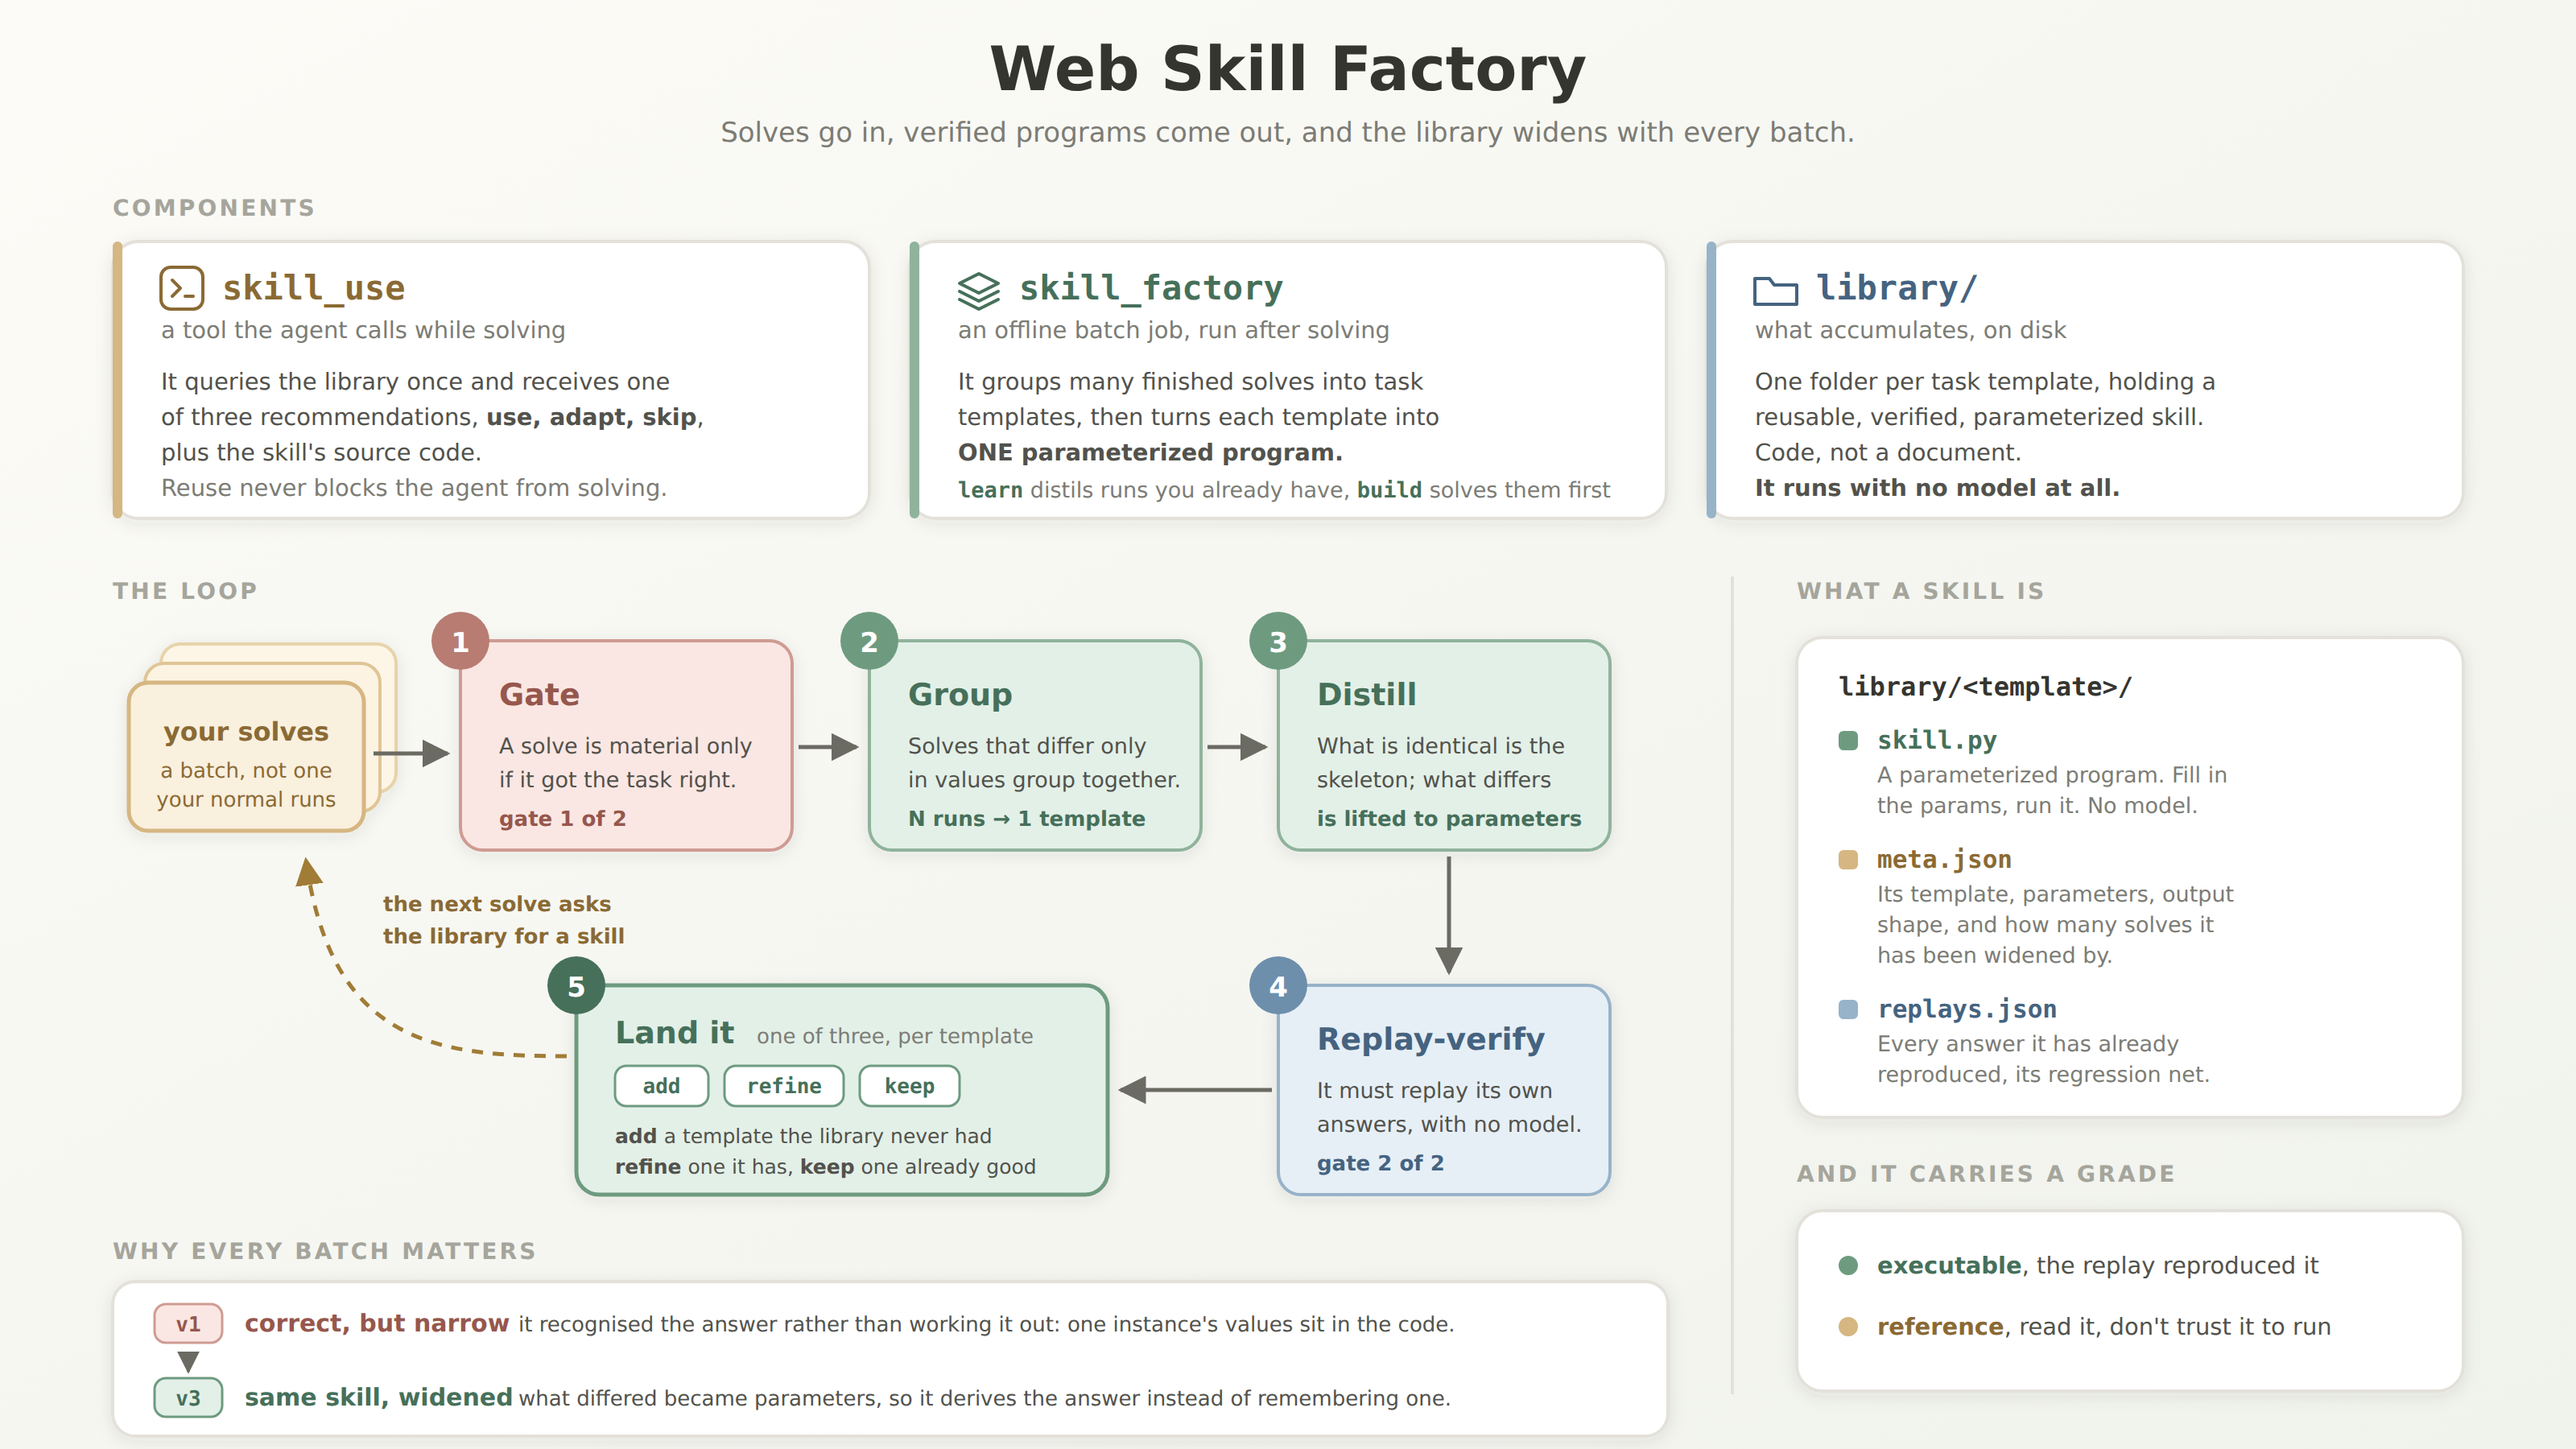
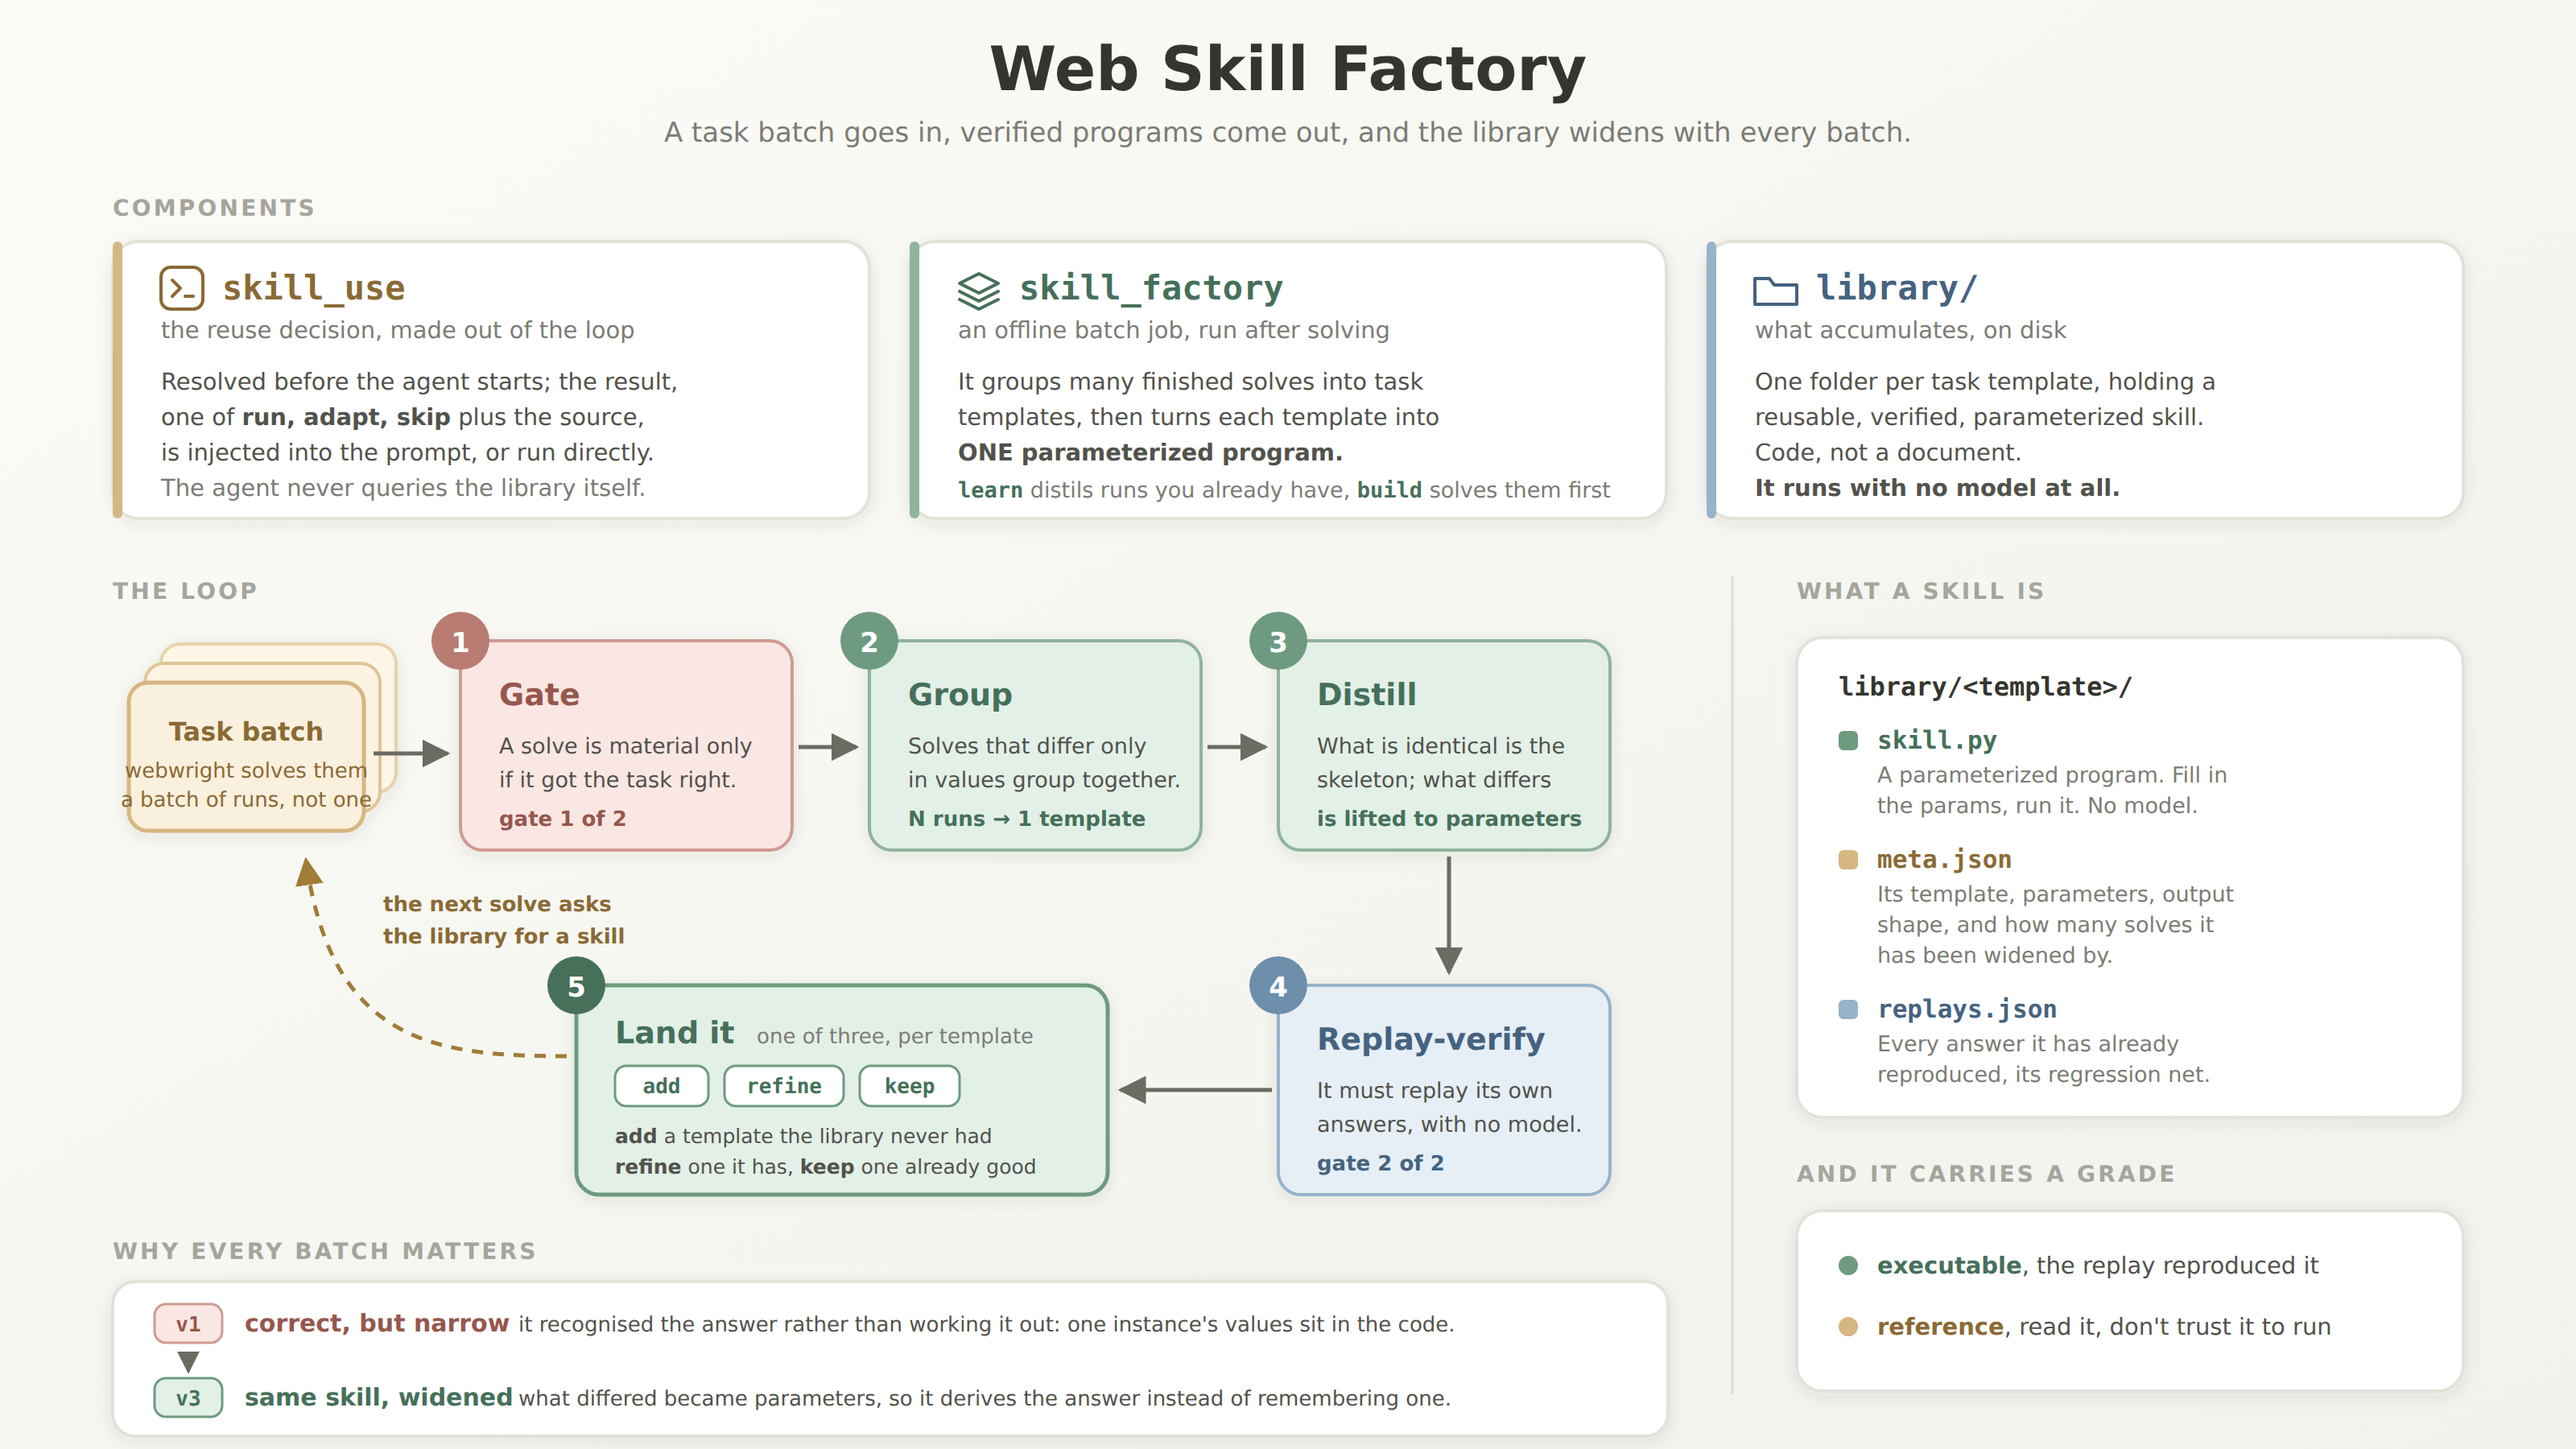
fix: purge remaining out-of-loop / quickstart legacy across repo + diagrams
- root README: the Reuse bullet described the old in-loop skill_use call; reuse is
  resolved out of the agent loop now (recommend / route, injected or run directly).
- skill_use.py docstring: reframe from "the agent invokes this from bash during
  solving" to the out-of-loop recommend decision (run/adapt/skip).
- flights.skill.yaml: on_fail reject -> reference (match the new default).
- diagrams: pipeline.svg starts from "Task batch → webwright solves them" (was
  "your solves") and its skill_use box is out-of-loop; interfaces.svg SOLVE TIME
  column no longer shows an in-loop "$ skill_use → tool output → agent observation"
  flow. Both PNGs regenerated from the SVGs (headless chromium).

Changed region(s): [[0.0625, 0.2178, 0.2812, 0.3422], [0.2812, 0.0622, 0.7188, 0.1244], [0.0312, 0.4978, 0.1562, 0.56]]

diff --git a/src/webwright/tools/skill_use.py b/src/webwright/tools/skill_use.py
@@ -1,14 +1,16 @@
-"""skill_use — solve-time tool: query the skill library for a reusable skill for THIS task.
+"""skill_use — the skill-library query for THIS task: the `recommend` decision.
 
-Like self_reflection / image_qa, the agent invokes this from bash during solving:
+Resolved OUT of the agent's step loop — `route` and the prompt-hint injection call it before/around
+a solve, so the agent never spends its own steps querying the library. Also runnable as a CLI:
 
     python -m webwright.tools.skill_use --task "Get the latest release version of facebook/react" \
         --library "$WORKSPACE_DIR/../library"
 
-It retrieves the most relevant skill (relevance) and judges utility (use / adapt / skip), then
-prints a JSON recommendation telling the agent how to reuse it (and the path to read its source).
-The agent decides: reuse as-is (use), reuse the core and change only the last step (adapt), or
-solve from scratch (skip). Retrieval/judgement never block solving — on any error it prints skip.
+It retrieves the most relevant skill (relevance) and judges utility, then returns a JSON
+recommendation: verdict (run / adapt / skip), the chosen skill, how to reuse it, the filled params,
+and the path to its source. run = an executable skill that covers the task and whose slots all fill,
+so it runs directly; adapt = reuse the core and change what differs; skip = solve from scratch.
+Retrieval/judgement never block a solve — on any error it returns skip.
 """
 from __future__ import annotations
 
